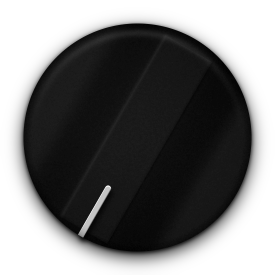
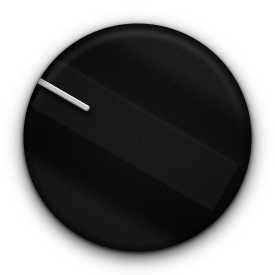
Mode: Half a 30 % (-60 grados) y Whole a 10 % (-120 grados) del Fade, textos a 41,5 [skip ci]
Claude-Session: https://claude.ai/code/session_01LmYTuHAKQSU8qhR6nNkVAi

Changed region(s): [[0.2618, 0.6691, 0.4073, 0.9018], [0.1164, 0.2909, 0.3491, 0.4073]]

diff --git a/UI_definitiva/generadores/bg_gen.py b/UI_definitiva/generadores/bg_gen.py
@@ -75,7 +75,10 @@ for cx,name in ((fx,"Bypass"),(1495,"SC Listen")):
     txt(cx,base,name,bf,'ms')
 BH=base   # linea de base de Half / Whole = la de los valores de abajo
 HW=FL(30); XH=999-(119*math.sin(math.radians(30))+34*math.tan(math.radians(30)))   # centro de Half (Whole es simetrico)
-txt(XH,BH,'Half',HW,'ms'); txt(1998-XH,BH,'Whole',HW,'ms')
+def _cen(t,cx,cy):   # texto con el centro de su tinta en (cx,cy)
+    bb_=_ink(t,HW,'ls'); d.text((cx*S-(bb_[0]+bb_[2])/2,cy*S-(bb_[1]+bb_[3])/2),t,font=HW,fill=G,anchor='ls')
+_cen('Half',843.8,710.4)    # Half a -60 grados (30 % del Fade), a 41,5 de la perilla
+_cen('Whole',832.7,896.0)   # Whole a -120 grados (10 % del Fade), a 41,5 de la perilla
 # escala de Depth estilo referencia: puntitos + numeros (0 dB al centro, +6 a la derecha lineal, mitad izquierda logaritmica)
 LAB=['\u2212\u221e','\u221248','\u221224','\u221212','\u22126','\u22123','0','+1','+2','+3','+4','+5','+6']
 cx_,cy_,R_=416,522,275; fs=FL(30)

diff --git a/Source/PluginEditor.cpp b/Source/PluginEditor.cpp
@@ -548,9 +548,6 @@ void PhantomAsymEditor::mouseDown (const MouseEvent& e)
     if (e.eventComponent != this) return;
     // clic en las palabras "Half" / "Whole" elige el modo
     const auto p = e.position / scale + Point<float> ((float) kCrop, (float) kCrop);
-    if (p.y >= 936.0f && p.y <= 991.0f)
-    {
-        if (p.x >= 880.0f && p.x <= 960.0f)       impl->mode.setWhole (false);
-        else if (p.x >= 1038.0f && p.x <= 1118.0f) impl->mode.setWhole (true);
-    }
+    if (p.x >= 800.0f && p.x <= 880.0f && p.y >= 685.0f && p.y <= 732.0f)       impl->mode.setWhole (false);   // Half: arriba a la izquierda de la perilla
+    else if (p.x >= 770.0f && p.x <= 880.0f && p.y >= 875.0f && p.y <= 922.0f)   impl->mode.setWhole (true);    // Whole: abajo a la izquierda
 }

diff --git a/UI_definitiva/generadores/knobs_gen.py b/UI_definitiva/generadores/knobs_gen.py
@@ -108,7 +108,7 @@ def atlas(name,H,mk,a0=-135,nf=NF):   # un cuadro cada 2 grados desde a0 (Depth 
 if __name__=='__main__':
     two(depth_body,DEPTH_N).save('depth_body.png'); print('depth_body',DEPTH_N//S)
     two(pol_body,POL_N).save('pol_body.png'); print('pol_body',POL_N//S)
-    mode_img(-150).save('mode_half.png'); mode_img(150).save('mode_whole.png')
+    mode_img(-60).save('mode_half.png'); mode_img(-120).save('mode_whole.png')
     HD=106; HP=71
     atlas('depth_ptr.png',HD,lambda a:ptr_cell(a,RD*S,0.475*RD*S,0.85*RD*S,0.85*RD*S,col_depth,HD),a0=-150,nf=151)   # Depth: recorrido de 300 grados
     atlas('pol_ptr.png',HP,lambda a:ptr_cell(a,RP*S,(0.40/0.775)*RP*S,1.1*RP*S,RP*S,col_pol,HP),a0=-150,nf=151)   # Fade: recorrido de 300 grados
